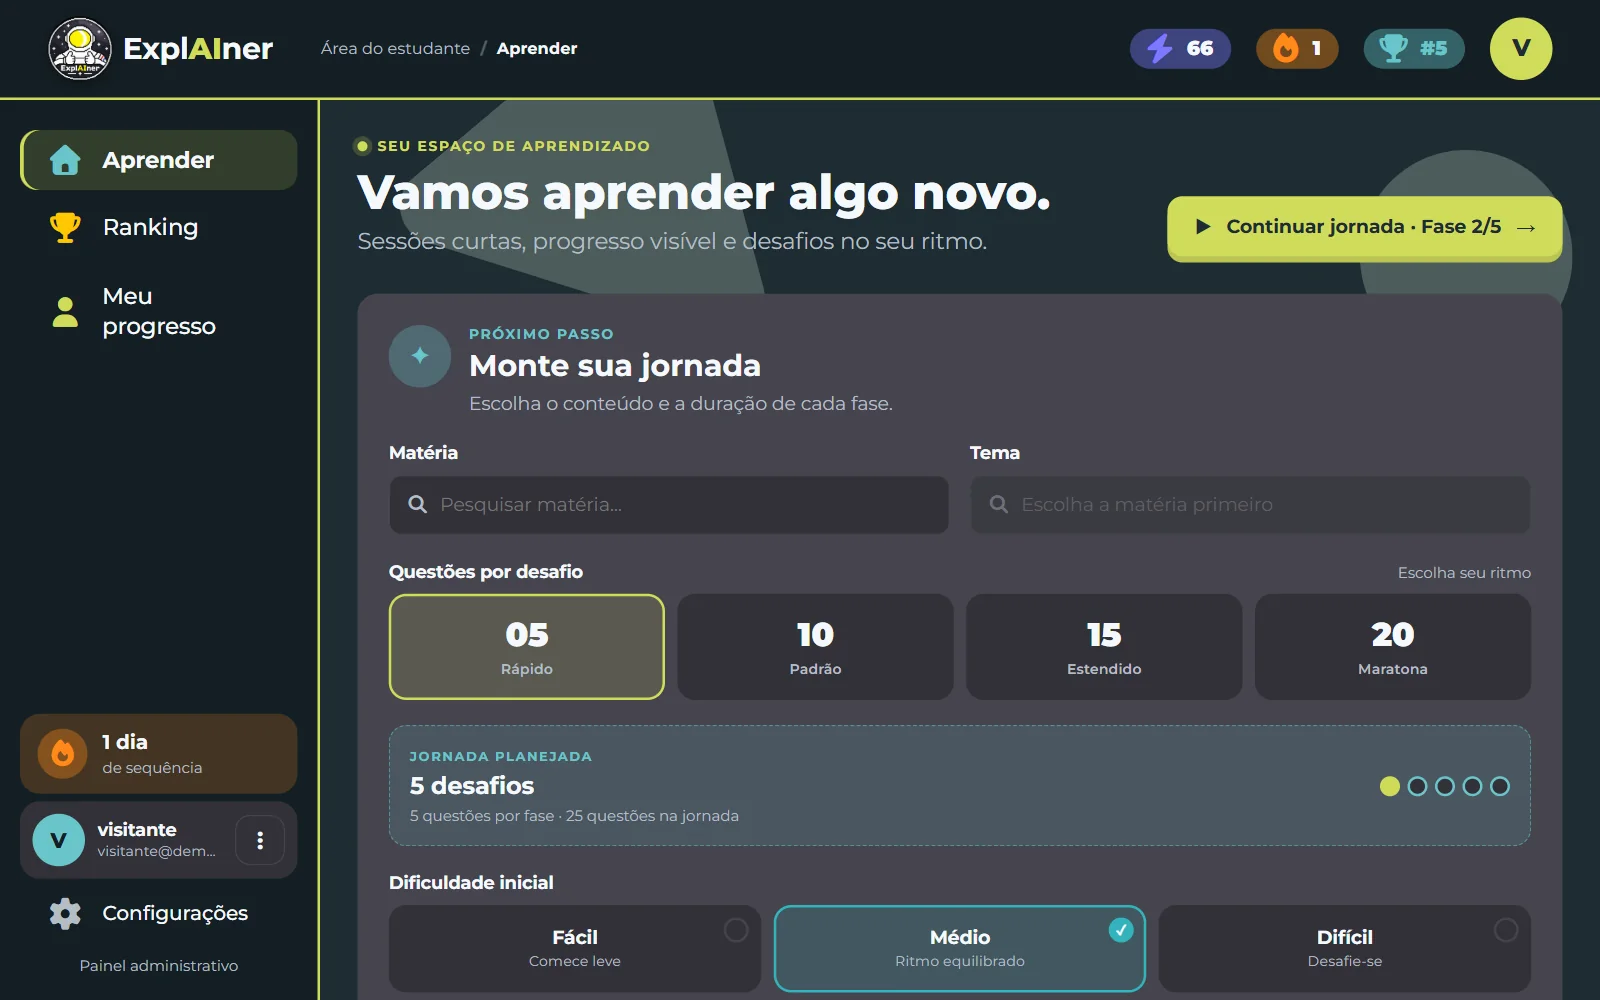
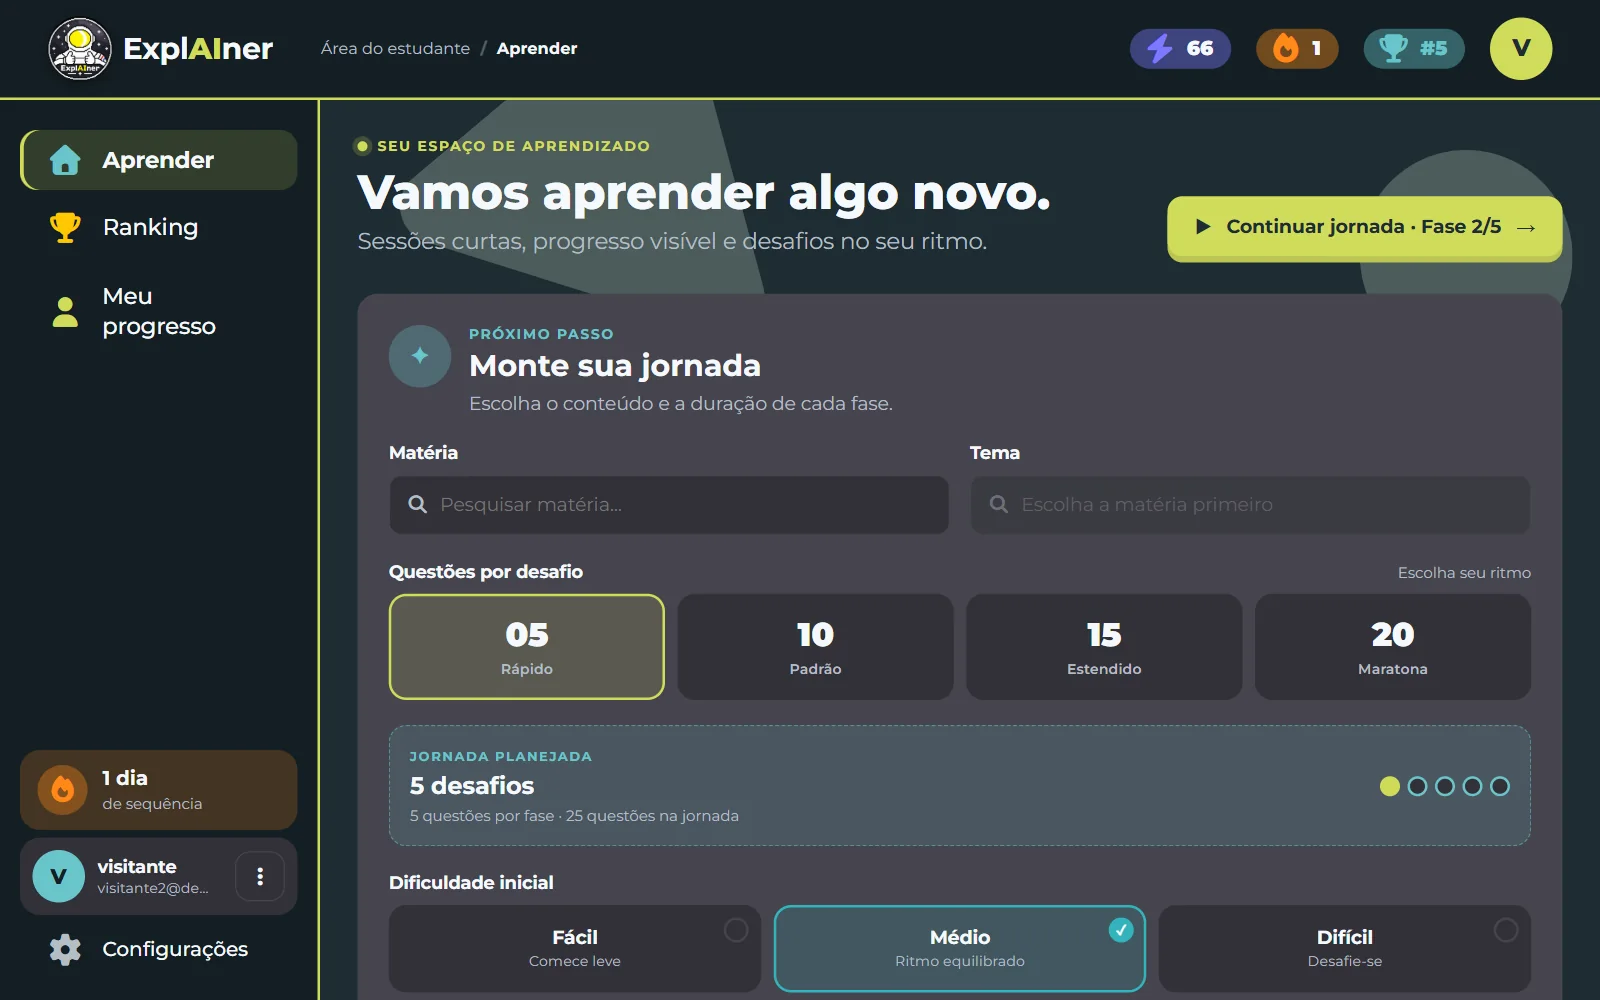
Captura do computador sem o link do painel administrativo

Changed region(s): [[0.0, 0.713, 0.1875, 0.992]]

diff --git a/index.html b/index.html
@@ -297,7 +297,7 @@
         </div>
         <figure class="notebook revelar">
           <div class="notebook-tela">
-            <img src="assets/telas/painel.webp?v=2" width="1600" height="1000" loading="lazy" decoding="async" alt="Área do estudante no computador: menu lateral, pontos, sequência, botão Continuar jornada e o painel Monte sua jornada.">
+            <img src="assets/telas/painel.webp?v=3" width="1600" height="1000" loading="lazy" decoding="async" alt="Área do estudante no computador: menu lateral, pontos, sequência, botão Continuar jornada e o painel Monte sua jornada.">
           </div>
           <span class="notebook-base" aria-hidden="true"></span>
         </figure>
